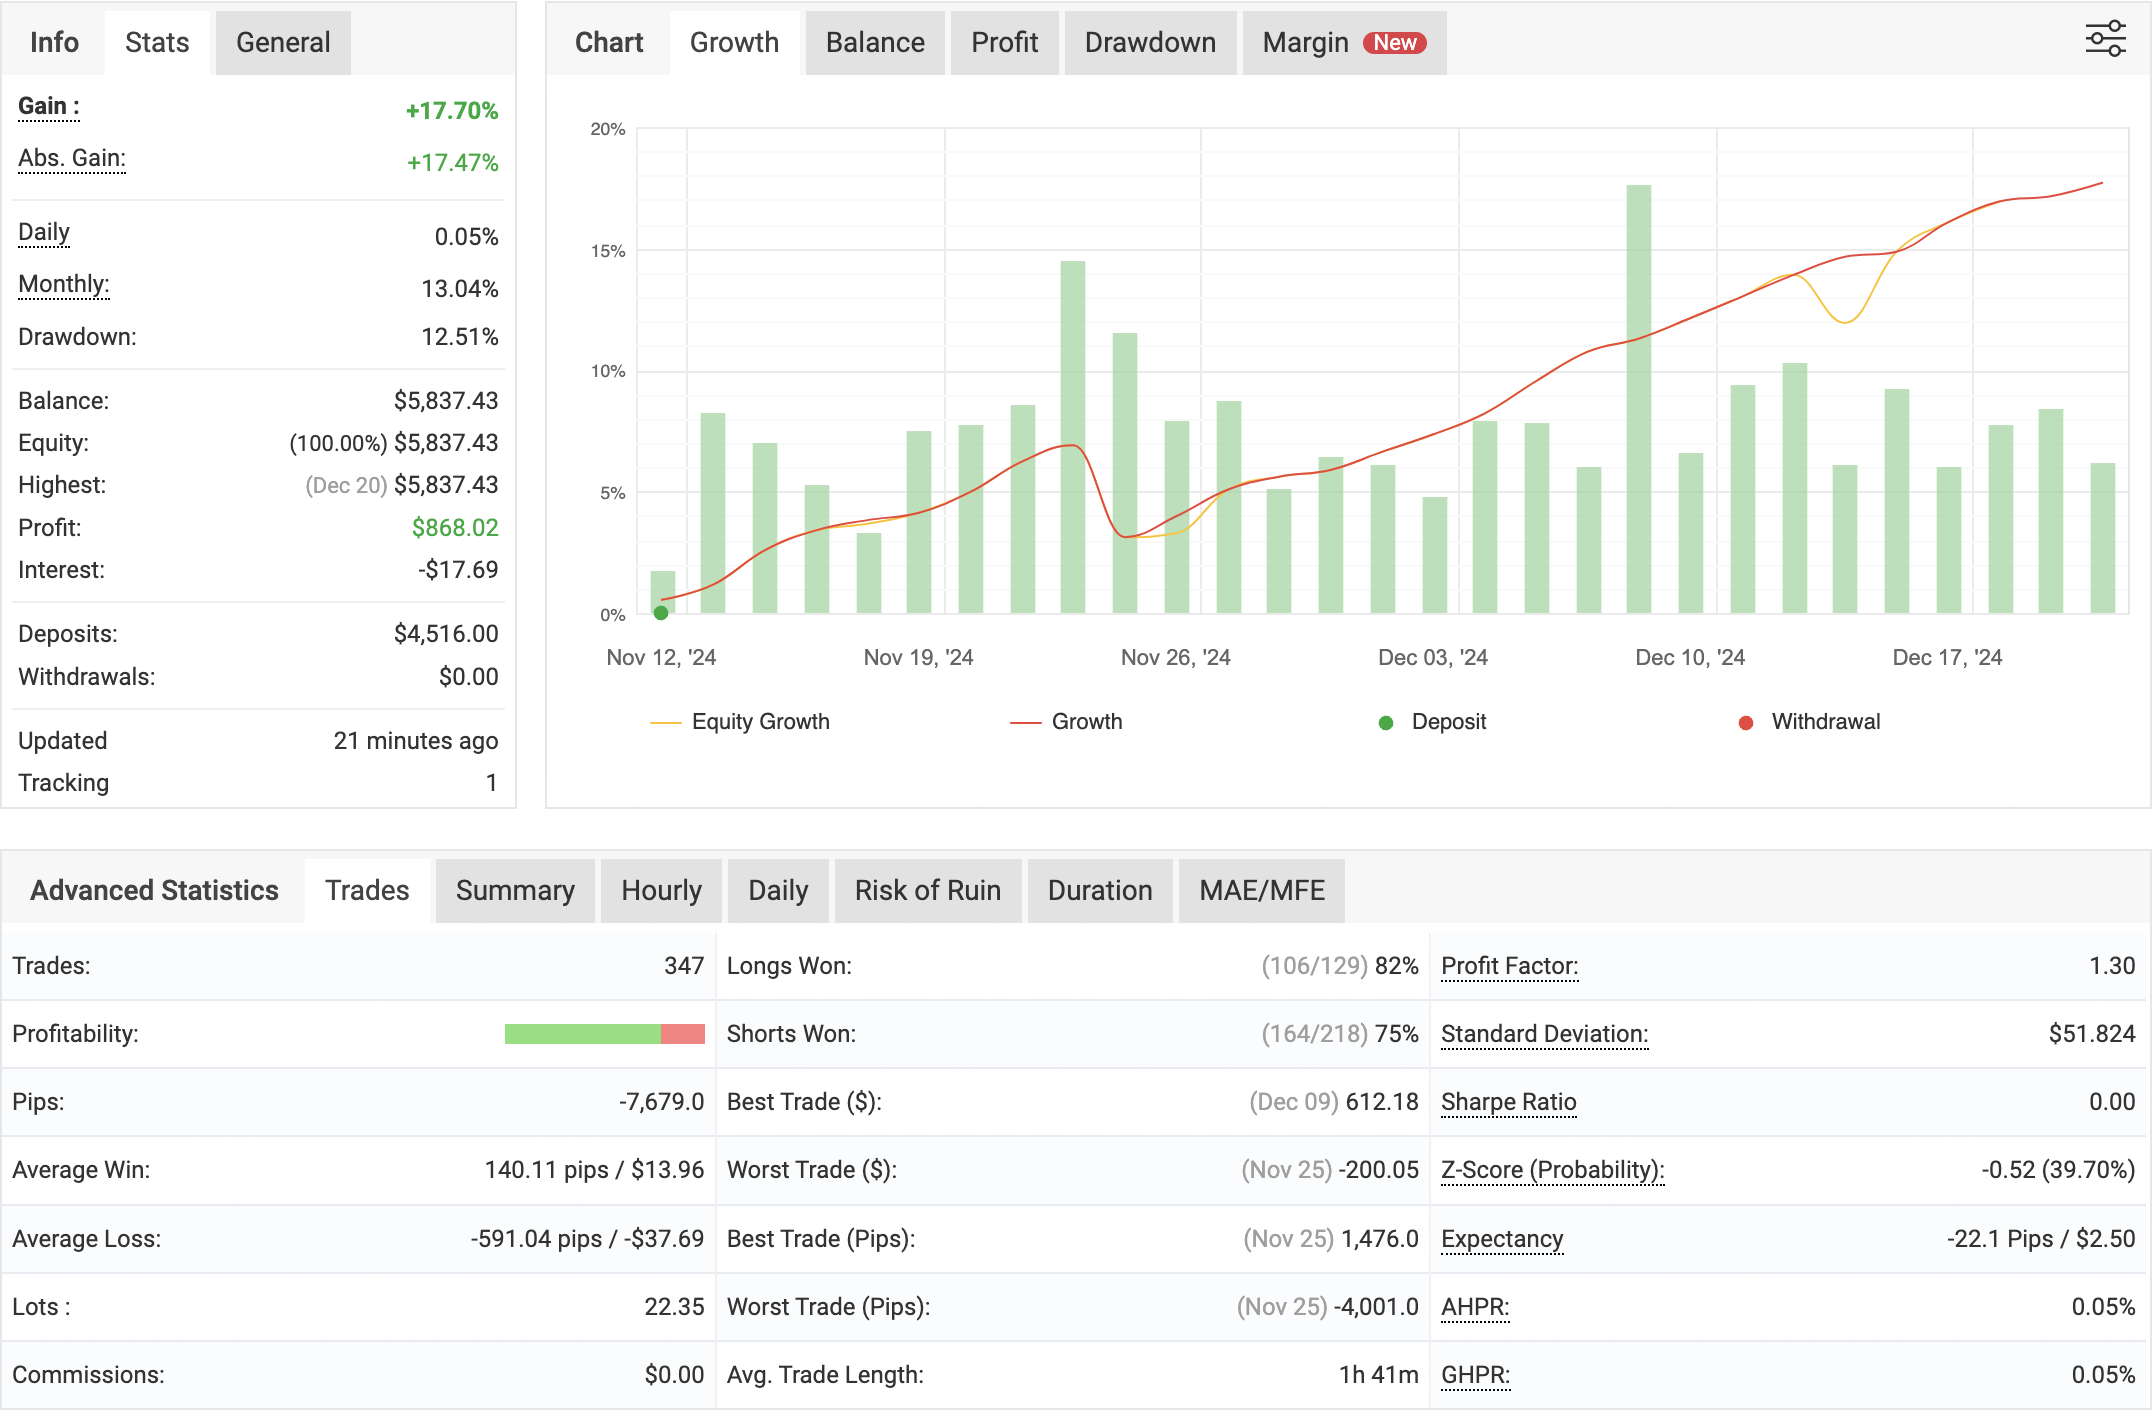
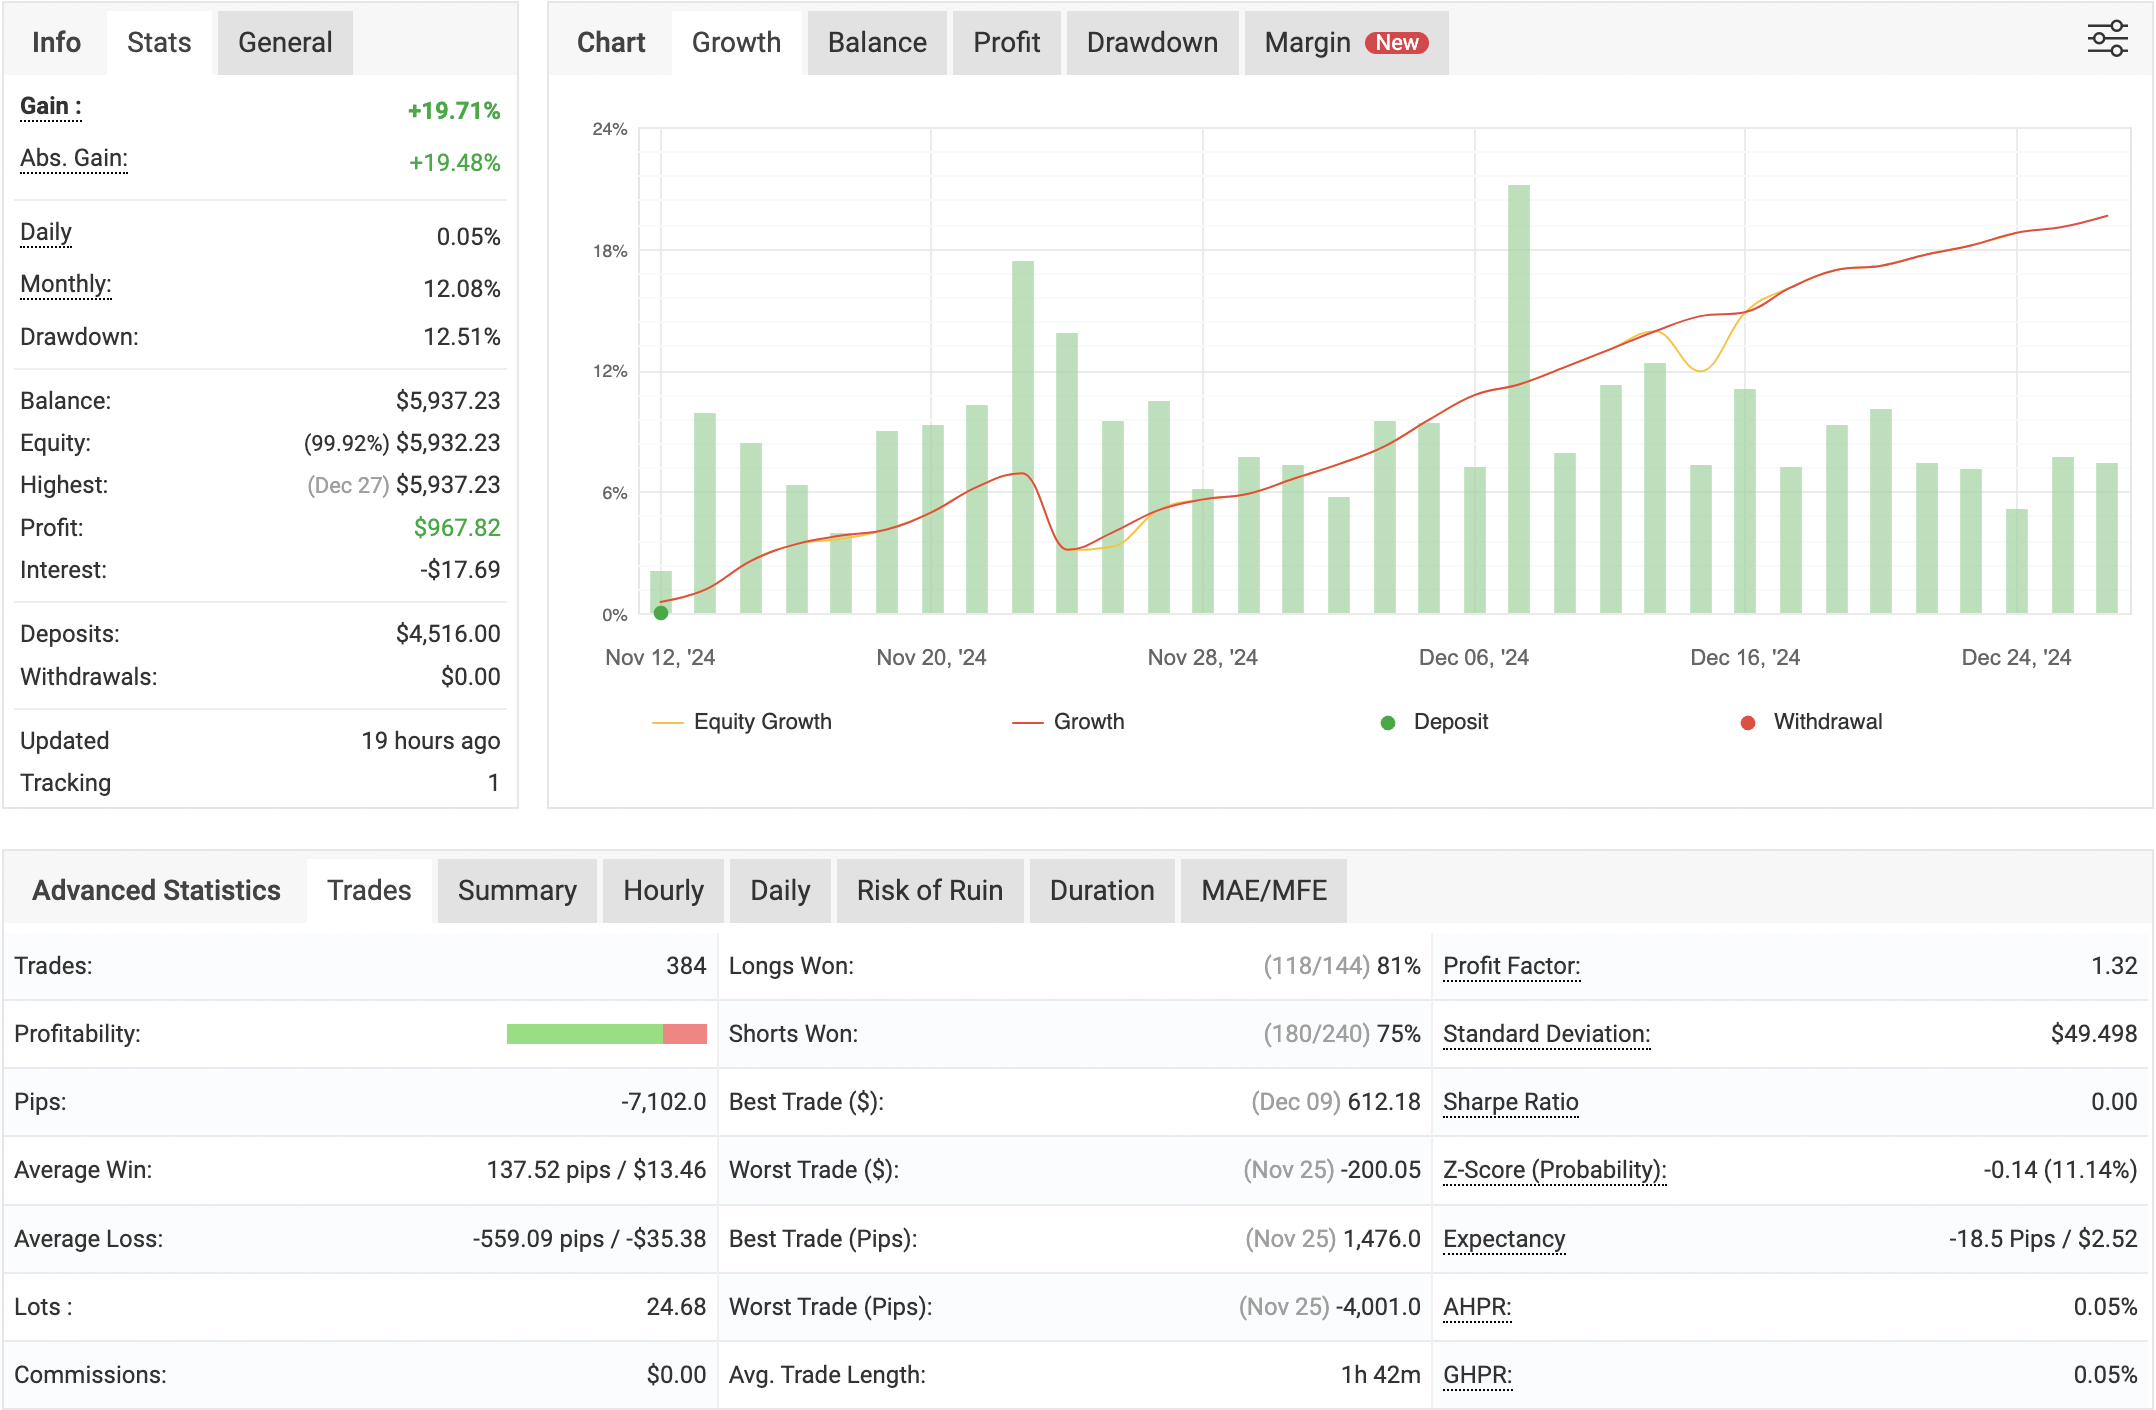
Dec 29 updates

diff --git a/index.html b/index.html
@@ -472,66 +472,72 @@ j=d.createElement(s),dl=l!='dataLayer'?'&l='+l:'';j.async=true;j.src=
                 Updated: December 21, 2024 — Covers performance from November 12 to December 20, 2024.
             </p>
             <table>
-                <tr>
-                    <th>Metric</th>
-                    <th>Value</th>
-                </tr>
-                <tr>
-                    <td>Gain</td>
-                    <td>+17.70%</td>
-                </tr>
-                <tr>
-                    <td>Daily Profit</td>
-                    <td>0.05%</td>
-                </tr>
-                <tr>
-                    <td>Monthly Profit</td>
-                    <td>+13.04%</td>
-                </tr>
-                <tr>
-                    <td>Balance</td>
-                    <td>$5,837.43 (Cents)</td>
-                </tr>
-                <tr>
-                    <td>Total Trades</td>
-                    <td>347</td>
-                </tr>
-                <tr>
-                    <td>Profitability</td>
-                    <td>82%</td>
-                </tr>
-                <tr>
-                    <td>Pips</td>
-                    <td>-7,679.0</td>
-                </tr>
-                <tr>
-                    <td>Average Win</td>
-                    <td>140.11 pips / $13.96</td>
-                </tr>
-                <tr>
-                    <td>Average Loss</td>
-                    <td>-591.04 pips / -$37.69</td>
-                </tr>
-                <tr>
-                    <td>Lots Traded</td>
-                    <td>22.35</td>
-                </tr>
-                <tr>
-                    <td>Profit Factor</td>
-                    <td>1.30</td>
-                </tr>
-                <tr>
-                    <td>Sharpe Ratio</td>
-                    <td>0.00</td>
-                </tr>
-                <tr>
-                    <td>Expectancy</td>
-                    <td>-22.1 Pips / $2.50</td>
-                </tr>
-                <tr>
-                    <td>Average Trade Length</td>
-                    <td>1h 41m</td>
-                </tr>
+                <tbody>
+                    <tr>
+                        <th>Metric</th>
+                        <th>Value</th>
+                    </tr>
+                    <tr>
+                        <td>Gain</td>
+                        <td>+19.71%</td>
+                    </tr>
+                    <tr>
+                        <td>Daily Profit</td>
+                        <td>0.05%</td>
+                    </tr>
+                    <tr>
+                        <td>Monthly Profit</td>
+                        <td>12.08%</td>
+                    </tr>
+                    <tr>
+                        <td>Balance</td>
+                        <td>$5,937.23</td>
+                    </tr>
+                    <tr>
+                        <td>Total Trades</td>
+                        <td>384</td>
+                    </tr>
+                    <tr>
+                        <td>Profitability (Longs)</td>
+                        <td>81% (118/144)</td>
+                    </tr>
+                    <tr>
+                        <td>Profitability (Shorts)</td>
+                        <td>75% (180/240)</td>
+                    </tr>
+                    <tr>
+                        <td>Pips</td>
+                        <td>-7,102.0</td>
+                    </tr>
+                    <tr>
+                        <td>Average Win</td>
+                        <td>137.52 pips / $13.46</td>
+                    </tr>
+                    <tr>
+                        <td>Average Loss</td>
+                        <td>-559.09 pips / -$35.38</td>
+                    </tr>
+                    <tr>
+                        <td>Lots Traded</td>
+                        <td>24.68</td>
+                    </tr>
+                    <tr>
+                        <td>Profit Factor</td>
+                        <td>1.32</td>
+                    </tr>
+                    <tr>
+                        <td>Sharpe Ratio</td>
+                        <td>0.00</td>
+                    </tr>
+                    <tr>
+                        <td>Expectancy</td>
+                        <td>-18.5 Pips / $2.52</td>
+                    </tr>
+                    <tr>
+                        <td>Average Trade Length</td>
+                        <td>1h 42m</td>
+                    </tr>
+                </tbody>
             </table>
             <p style="text-align: center; font-size: 0.9em; color: #555;"></p>
                 📈 View detailed performance on <a href="https://bit.ly/forex-copytrade" target="_blank" rel="noopener noreferrer">LiteFinance</a>.
@@ -546,67 +552,73 @@ j=d.createElement(s),dl=l!='dataLayer'?'&l='+l:'';j.async=true;j.src=
                 Updated: December 21, 2024 — Covers performance from November 16 to December 20, 2024.
             </p>
             <table>
-                <tr>
-                    <th>Metric</th>
-                    <th>Value</th>
-                </tr>
-                <tr>
-                    <td>Gain</td>
-                    <td>+22.69%</td>
-                </tr>
-                <tr>
-                    <td>Daily Profit</td>
-                    <td>0.59%</td>
-                </tr>
-                <tr>
-                    <td>Monthly Profit</td>
-                    <td>+19.20%</td>
-                </tr>
-                <tr>
-                    <td>Balance</td>
-                    <td>$12,269.59 (Cents)</td>
-                </tr>
-                <tr>
-                    <td>Total Trades</td>
-                    <td>252</td>
-                </tr>
-                <tr>
-                    <td>Profitability</td>
-                    <td>79%</td>
-                </tr>
-                <tr>
-                    <td>Pips</td>
-                    <td>-4,246.0</td>
-                </tr>
-                <tr>
-                    <td>Average Win</td>
-                    <td>157.85 pips / $36.90</td>
-                </tr>
-                <tr>
-                    <td>Average Loss</td>
-                    <td>-759.21 pips / -$109.57</td>
-                </tr>
-                <tr>
-                    <td>Lots Traded</td>
-                    <td>37.00</td>
-                </tr>
-                <tr>
-                    <td>Profit Factor</td>
-                    <td>1.43</td>
-                </tr>
-                <tr>
-                    <td>Sharpe Ratio</td>
-                    <td>0.07</td>
-                </tr>
-                <tr>
-                    <td>Expectancy</td>
-                    <td>-16.8 Pips / $9.00</td>
-                </tr>
-                <tr>
-                    <td>Average Trade Length</td>
-                    <td>2h 35m</td>
-                </tr>
-            </table>
+                <tbody>
+                    <tr>
+                        <th>Metric</th>
+                        <th>Value</th>
+                    </tr>
+                    <tr>
+                        <td>Gain</td>
+                        <td>+25.28%</td>
+                    </tr>
+                    <tr>
+                        <td>Daily Profit</td>
+                        <td>0.54%</td>
+                    </tr>
+                    <tr>
+                        <td>Monthly Profit</td>
+                        <td>17.53%</td>
+                    </tr>
+                    <tr>
+                        <td>Balance</td>
+                        <td>$12,528.65</td>
+                    </tr>
+                    <tr>
+                        <td>Total Trades</td>
+                        <td>286</td>
+                    </tr>
+                    <tr>
+                        <td>Profitability (Longs)</td>
+                        <td>80% (79/98)</td>
+                    </tr>
+                    <tr>
+                        <td>Profitability (Shorts)</td>
+                        <td>80% (152/188)</td>
+                    </tr>
+                    <tr>
+                        <td>Pips</td>
+                        <td>-3,502.0</td>
+                    </tr>
+                    <tr>
+                        <td>Average Win</td>
+                        <td>153.35 pips / $35.03</td>
+                    </tr>
+                    <tr>
+                        <td>Average Loss</td>
+                        <td>-707.73 pips / -$101.16</td>
+                    </tr>
+                    <tr>
+                        <td>Lots Traded</td>
+                        <td>42.03</td>
+                    </tr>
+                    <tr>
+                        <td>Profit Factor</td>
+                        <td>1.45</td>
+                    </tr>
+                    <tr>
+                        <td>Sharpe Ratio</td>
+                        <td>0.07</td>
+                    </tr>
+                    <tr>
+                        <td>Expectancy</td>
+                        <td>-12.2 Pips / $8.84</td>
+                    </tr>
+                    <tr>
+                        <td>Average Trade Length</td>
+                        <td>2h 32m</td>
+                    </tr>
+                </tbody>
+             </table>
             <p style="text-align: center; font-size: 0.9em; color: #555;">
                 📈 View detailed performance on <a href="https://www.myfxbook.com/members/allanninal/roboforex/11223711" target="_blank" rel="noopener noreferrer">Myfxbook</a>.
             </p>
